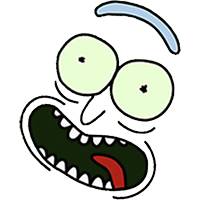
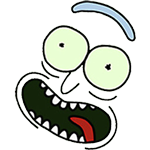
replace pickle rick

diff --git a/index.html b/index.html
@@ -112,7 +112,7 @@
             <img class="sticker" id="" src="./imgs/stickers/skull.png" onclick="onAddSticker('skull')">
             <img class="sticker" id="" src="./imgs/stickers/cat.png" onclick="onAddSticker('cat')">
             <img class="sticker" id="" src="./imgs/stickers/thing.png" onclick="onAddSticker('thing')">
-            <img class="sticker" id="" src="./imgs/stickers/rick.png" onclick="onAddSticker('rick')">
+            <img class="sticker" id="" src="./imgs/stickers/rick2.png" onclick="onAddSticker('rick2')">
             <img class="sticker" id="" src="./imgs/stickers/damn.png" onclick="onAddSticker('damn')">
         </div>
     </div>
